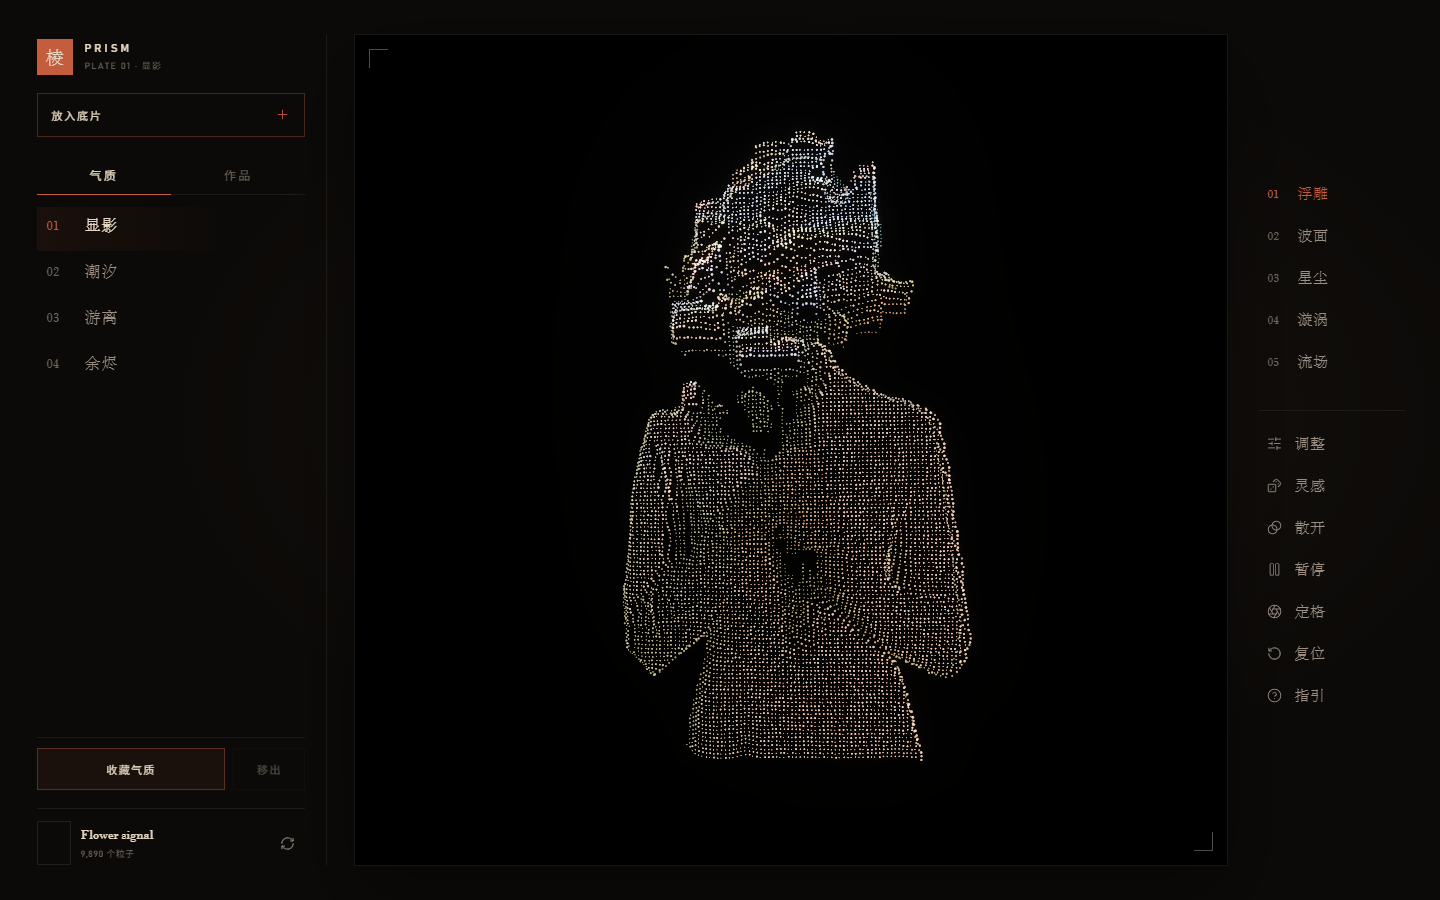
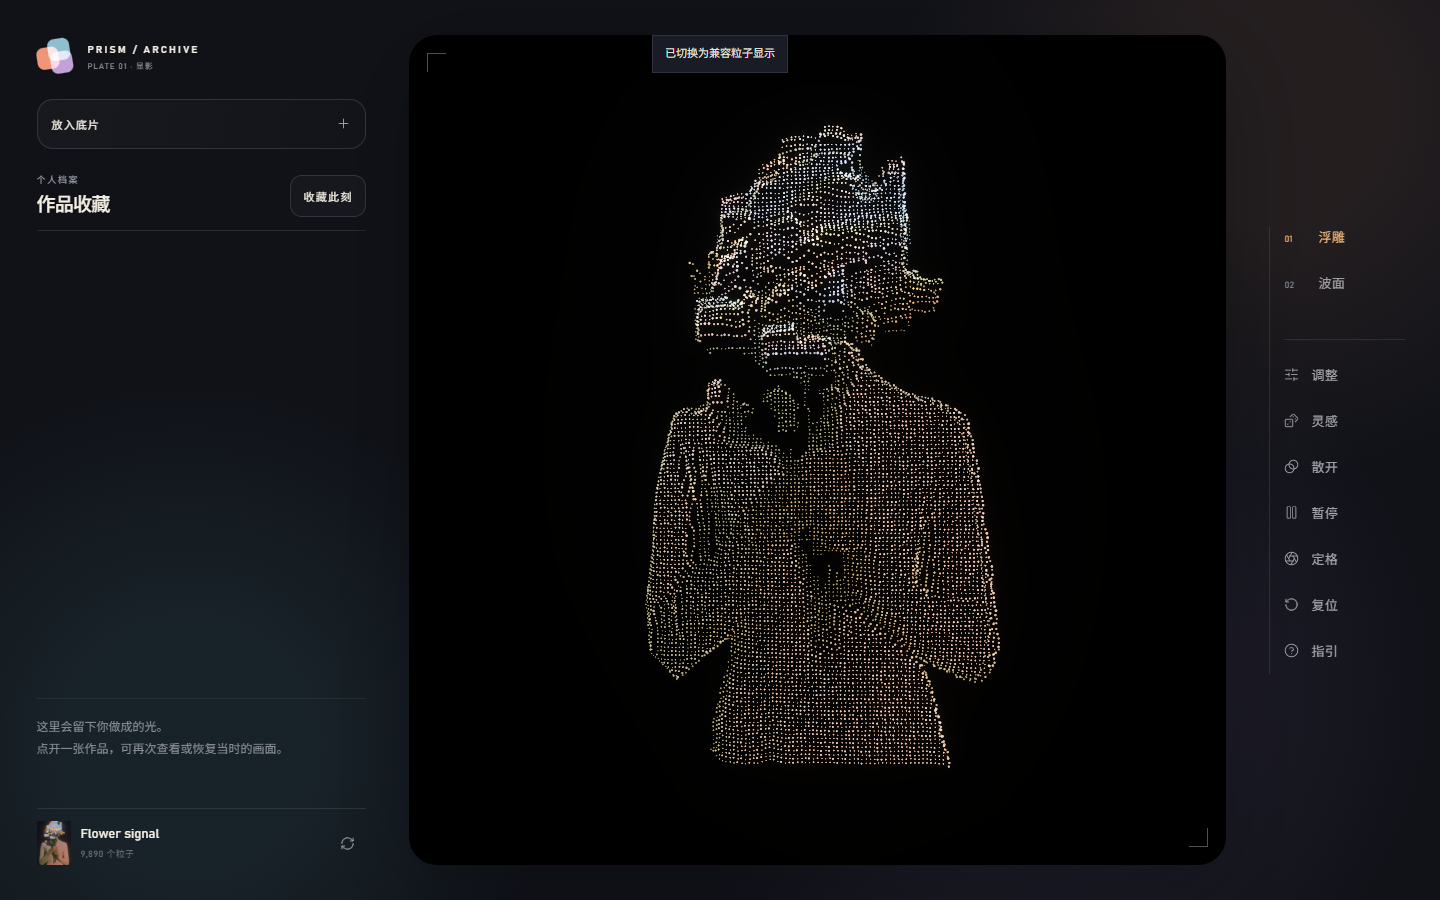
docs: present prism as a repository project

diff --git a/README.md b/README.md
@@ -1,38 +1,35 @@
 # PRISM
 
-把一张图像显影为可旋转、可呼吸、可定格带走的三维粒子作品。
+**将一张图像转化为可旋转、可保存、可重开的粒子作品。**
 
-![PRISM 工作台](docs/media/prism-workspace.png)
+![PRISM 当前工作台](docs/media/prism-workspace.png)
 
-PRISM 是一间浏览器里的图像暗房。图片只在本地解码与采样，数万个颜色粒子由自定义 shader 实时渲染。界面退到两侧，中央完整留给作品。
+PRISM 是一个浏览器内的图像粒子实验项目。导入图片后，它会将图像采样成可互动的三维粒子场；画面、参数和视角可以收进作品档案，之后在主编辑器中完整恢复。
 
-它不是 Particular Drift 那样的 2D 流场参数台，也不是 20 个滑杆的物理沙盒。导入之后先自动得到可辨认的立体浮雕，再用气质或一次「灵感」决定感觉，最后在定格模式里把这一刻带走。
+这是一个仓库项目展示，不部署到个人网站或 GitHub Pages。
 
-## 为什么做它
+## 核心体验
 
-多数图像粒子工具要么只是一次性特效，要么把算法名词摊在画布上。PRISM 选择更克制的路径：
+- 导入 PNG、JPEG、WebP、AVIF 图片，支持拖放与粘贴
+- 两种精炼的空间形态：浮雕与波面
+- 拖动旋转、滚轮或双指缩放、散开、暂停与定格
+- 可调景深、流动、粒径、辉光、色温、饱和度和质量档
+- 「收藏此刻」保存源图快照、全部参数、旋转与缩放视角
+- 点击作品缩略图，直接在中央编辑器重建保存时的原图和创作状态
+- WebGL 不可用时自动切换到 2D 点阵兼容显示，避免空白画布
 
-- 作品拥有独立舞台，常驻文字很轻、很暗
-- 五种连续形态：浮雕、波面、星尘、漩涡、流场
-- 气质与灵感代替参数墙
-- 定格后导出 2× PNG / WebP，以及不含原图的 JSON 配方
+## 作品收藏
 
-## 已实现
+作品不是参数预设。每次收藏会记录：
 
-- 选择、拖放、粘贴导入；PNG / JPEG / WebP / AVIF，最大 30 MB
-- 透明度、深色背景与亮度自适应采样
-- 浮雕 / 波面 / 星尘 / 漩涡 / 流场，连续插值而不是硬切
-- 显影、潮汐、游离、余烬；气质以底片列表收藏，同名覆盖
-- 作品柜子：把做成的画面收进联系表，稍后查看或套用配方
-- 灵感取样：在设计过的气质空间里抖动，而不是打乱全部物理量
-- 景深、流动、粒径，以及折叠的辉光 / 色温 / 饱和
-- 旋转、滚轮与双指缩放、光标粒子场、散开与暂停
-- 自动 / 轻盈 / 均衡 / 精致质量档
-- 定格模式、2× PNG、WebP、JSON 配方、URL hash 复现
-- 换图时先解构再揭示
-- 键盘路径、减少动效、错误反馈、320px 与矮横屏
+- 源图快照（最大边 1600px 的 WebP）
+- 当前粒子参数和形态
+- 画布旋转与镜头缩放
+- 成品缩略图和预览图
 
-## 开始使用
+新收藏的作品可在左侧「作品收藏」中点击恢复。历史版本中没有源图快照的作品仍可预览或删除，但不能精确重建。
+
+## 本地运行
 
 需要 Node.js 20 或更高版本。
 
@@ -41,48 +38,44 @@ npm install
 npm run dev
 ```
 
-打开终端显示的本地地址。生产构建：
+打开终端输出的本地地址。生产构建：
 
 ```bash
 npm run build
 npm run preview
 ```
 
-浏览器验收（先启动开发服务器）：
+浏览器交互检查（先启动开发服务）：
 
 ```bash
 npm run test:ui
 ```
 
-Windows 默认查找 Chrome；其他系统可通过 `CHROME_PATH` 指定 Chromium。
-
 ## 操作
 
 | 操作 | 结果 |
 | --- | --- |
-| 拖动 / 单指 | 旋转 |
+| 拖动 / 单指 | 旋转粒子作品 |
 | 滚轮 / 双指 | 缩放 |
 | `Ctrl/Cmd + O` | 选择图片 |
 | 粘贴 | 导入剪贴板图片 |
-| `Space` | 画布聚焦时暂停 |
-| `R` | 灵感 |
+| `Space` | 暂停画面 |
 | `B` | 收藏当前作品 |
-| `?` | 快捷键图例 |
-| 方向键 | 画布聚焦时旋转 |
+| `?` | 打开快捷键图例 |
 | `S` | 定格模式下导出 PNG |
 | `Escape` | 关闭当前层或复位 |
 
-## 技术结构
+## 技术
 
-- Vite + 原生 HTML / CSS / JavaScript
-- Three.js `Points` + `ShaderMaterial`
-- EffectComposer + UnrealBloomPass
-- GSAP 驱动 uniform 与界面过渡
-- Playwright Core 做多视口回归
+- Vite + 原生 HTML、CSS、JavaScript
+- Three.js Points 与 ShaderMaterial
+- EffectComposer / UnrealBloomPass
+- GSAP 处理参数过渡
+- IndexedDB 保存作品档案
+- Canvas 2D 作为 WebGL 后备渲染
+- Playwright Core 做多视口交互检查
 
-所有粒子一次 draw call。质量档限制采样、DPR 与辉光。详见 [架构说明](docs/ARCHITECTURE.md)。
-
-## 文档
+## 项目文档
 
 - [产品需求](docs/PRD.md)
 - [竞品与技术调研](docs/MARKET_RESEARCH.md)
@@ -92,7 +85,7 @@ Windows 默认查找 Chrome；其他系统可通过 `CHROME_PATH` 指定 Chromiu
 
 ## 隐私
 
-图片只在当前浏览器中解码、采样和渲染，不上传。自定义气质写入 localStorage。导出的配方和 URL hash 不含原图数据。
+图片只在当前浏览器内解码、采样和渲染，不上传到服务端。作品档案存储在浏览器 IndexedDB 内。
 
 ## 许可
 

diff --git a/docs/OPTIMIZATION_LOG.md b/docs/OPTIMIZATION_LOG.md
@@ -221,3 +221,8 @@
 
 - 没有 `sourceData` 的历史作品不再只显示提示。点击后改为打开「旧存档」预览，可下载或点击「移出柜子」删除；新作品仍走源图与参数恢复流程。
 - 浏览器注入一条无源图的旧记录验证：点击卡片会打开预览，点击移出后该记录从 IndexedDB 和作品墙移除，无 page error。
+
+## 2026-09-07 · 26 / 仓库展示整理
+
+- 移除 GitHub Pages 自动部署工作流；PRISM 仅作为仓库项目展示，不发布到个人网站。
+- README 重写为项目展示页：更新当前工作台截图、收束为两个形态、说明作品收藏的源图与状态恢复逻辑，并给出本地运行和交互说明。
